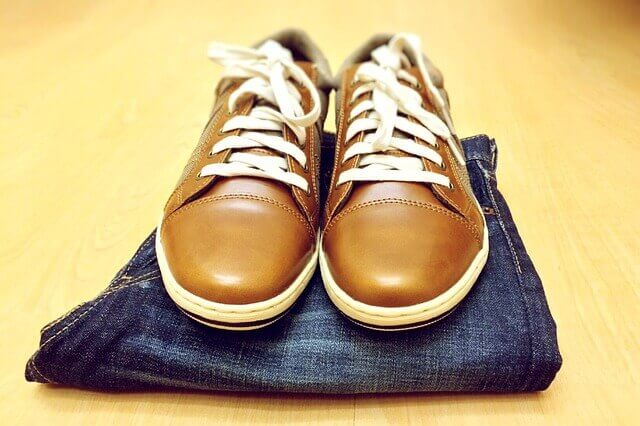
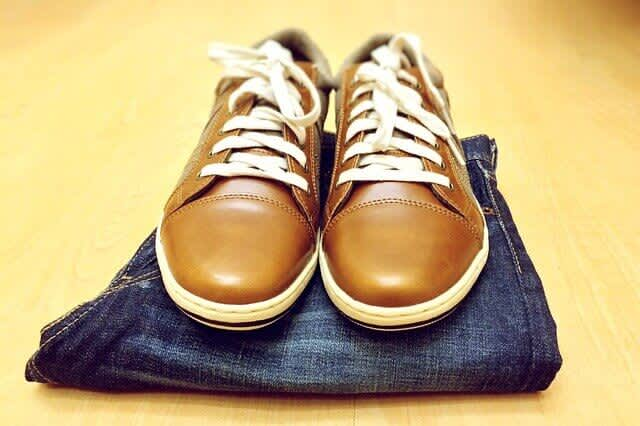
comprimiendo imagenes

diff --git a/src/components/main/featured/Featured.tsx b/src/components/main/featured/Featured.tsx
@@ -13,27 +13,27 @@ export const FeaturedArticles = async ({ products }: Props) => {
   const userInfo = await getAuthInfo();
   const { id: currentUserId } = userInfo!;
 
+  if (products.length === 0) {
+    return <></>;
+  }
+
   return (
-    <section className="main-wrapper px-4 lg:px-0">
-      <div className="mt-8">
-        <h2 className="mb-4 text-2xl md:text-3xl">Artículos destacados</h2>
-        <div className="grid grid-cols-2 md:grid-cols-3 lg:grid-cols-4 gap-4 auto-rows-fr">
-          <Suspense fallback={<CardsSkeleton />}>
-            {products.length > 0 ? (
-              products.map((product: IProduct) => (
-                <ProductCard
-                  key={product.id}
-                  product={product}
-                  currentUserId={currentUserId}
-                />
-              ))
-            ) : (
-              <p className="col-span-full text-center text-gray-500">
-                No hay artículos destacados disponibles en este momento.
-              </p>
-            )}
-          </Suspense>
-        </div>
+    <section className="main-wrapper px-4 lg:px-0 py-4">
+      <h2 className="mb-4 text-2xl md:text-3xl">Artículos destacados</h2>
+      <div className="grid grid-cols-2 md:grid-cols-3 lg:grid-cols-4 gap-4 auto-rows-fr">
+        <Suspense fallback={<CardsSkeleton />}>
+          {products.length > 0 ? (
+            products.map((product: IProduct) => (
+              <ProductCard
+                key={product.id}
+                product={product}
+                currentUserId={currentUserId}
+              />
+            ))
+          ) : (
+            <p className="col-span-full text-center text-gray-500"></p>
+          )}
+        </Suspense>
       </div>
     </section>
   );

diff --git a/src/components/main/Banner.tsx b/src/components/main/Banner.tsx
@@ -9,7 +9,7 @@ export const Banner = () => {
       {/* Contenedor de imagen */}
       <div className="relative w-full h-[300px] md:h-[400px] lg:h-[70vh] overflow-hidden">
         <Image
-          src="/main/sarah-brown.jpg"
+          src="/main/sarah-brown.webp"
           alt="Mujer sonriente en un armario"
           className="absolute inset-0 w-full h-full object-cover"
           fill={true}

diff --git a/src/components/main/category-grid/CategoryGrid.tsx b/src/components/main/category-grid/CategoryGrid.tsx
@@ -7,7 +7,7 @@ export const CategoryGrid = () => {
       title: 'COLECCIÓN FEMENINA',
       subtitle: '#MUJERES',
       description: 'Vestidos, Pantalones, Blusas y más',
-      imagePath: '/fashion.jpg',
+      imagePath: '/main/fashion.webp',
       gridClass: 'col-span-full md:col-span-1 md:row-span-2',
       link: '/catalog/mujer/ropa',
     },
